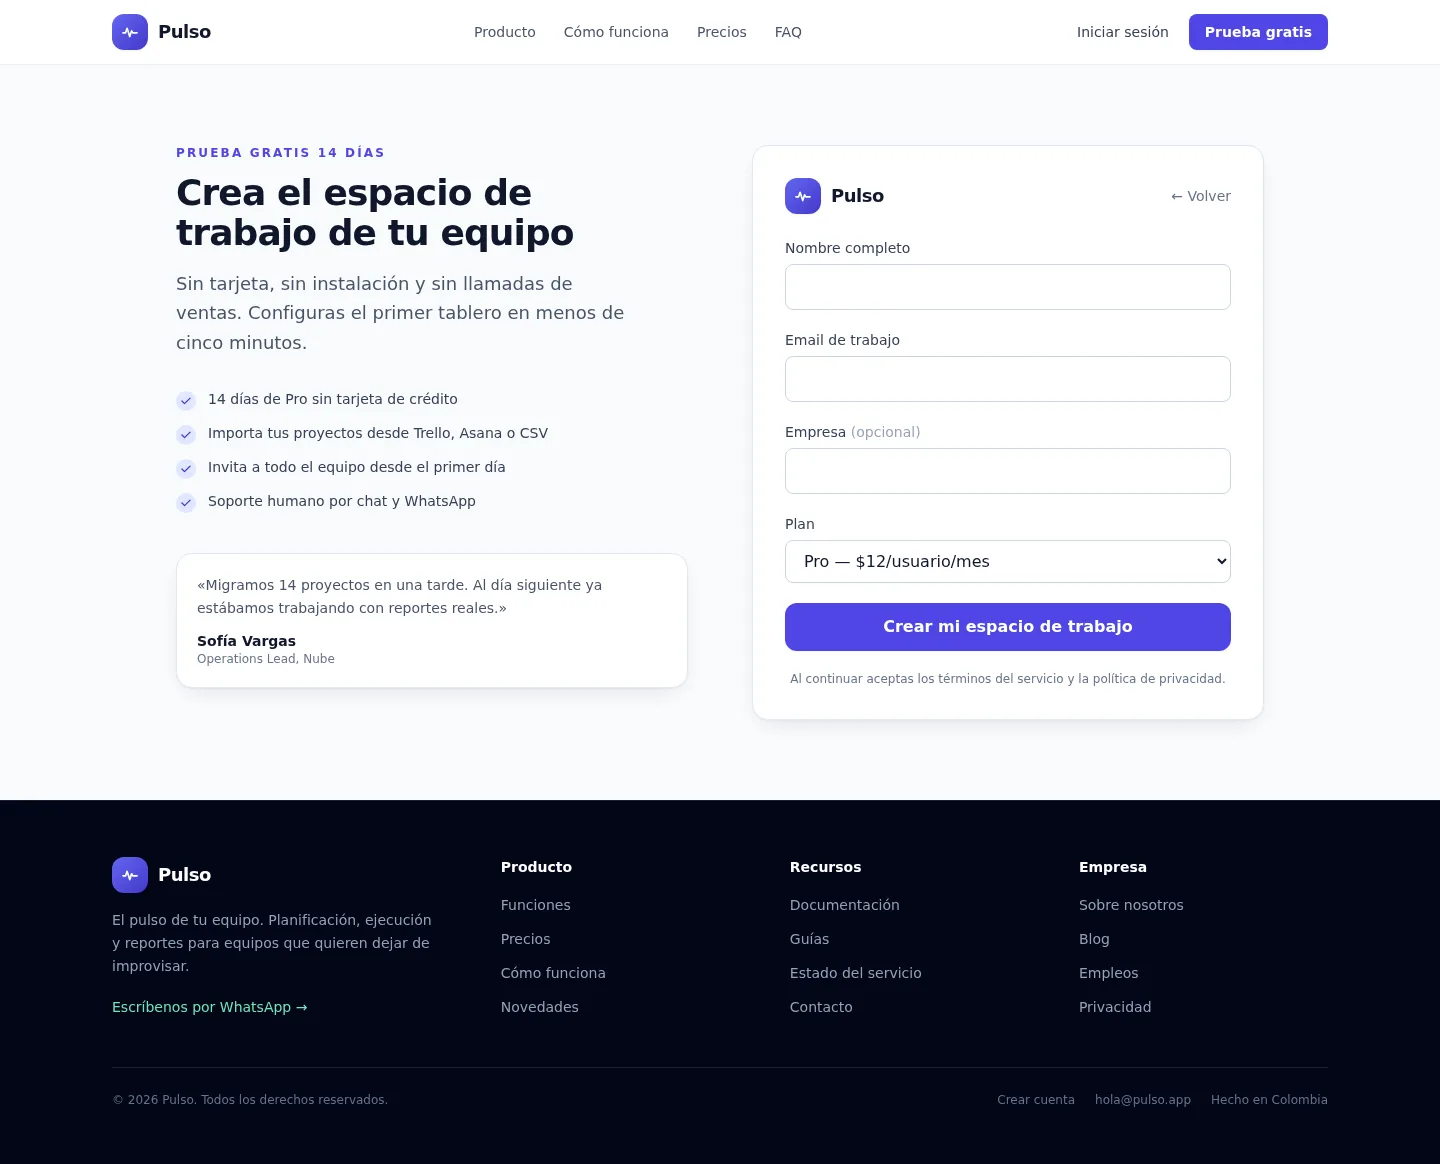
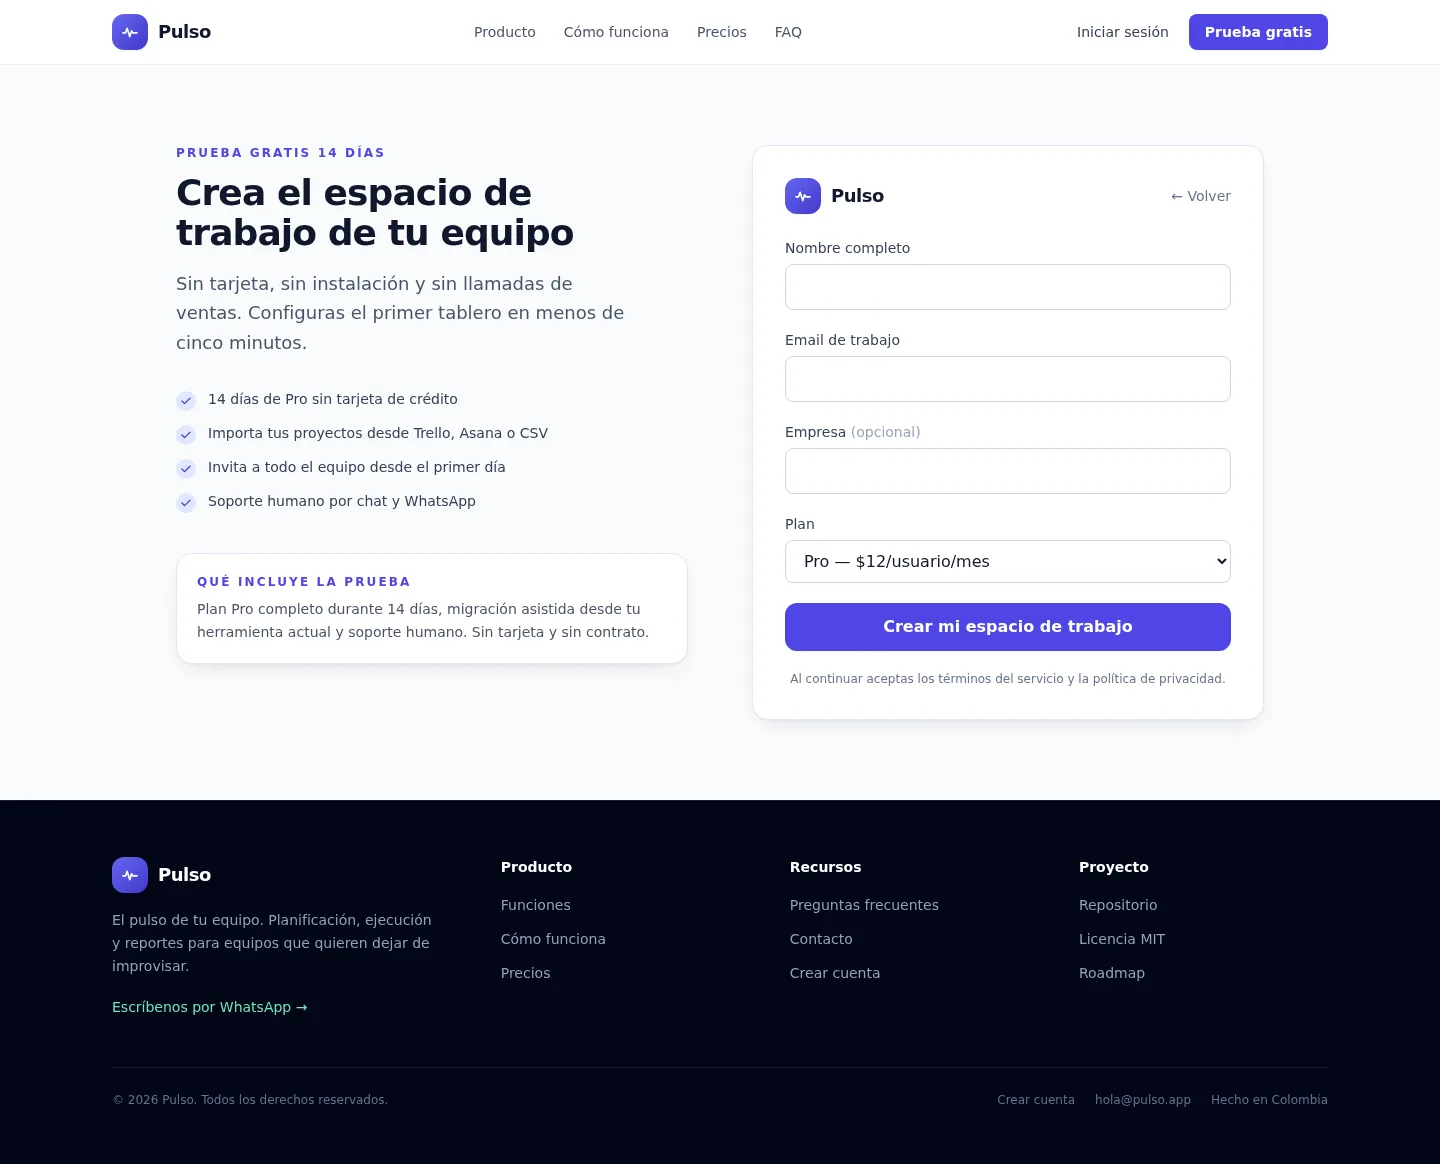
fix: disclose demo behavior and remove misleading content
- Signup no longer promises an email; success state states it is a demo
- Rename E2E case so it does not claim to create an account
- Replace fabricated hero metrics with verifiable product facts
- Label testimonials as illustrative and drop the sample quote from signup
- Replace dead footer links with working anchors and repository links
- Remove redundant WhatsApp alias and stale inherited copy in tests
- Refresh screenshots

diff --git a/apps/web/lib/constants.ts b/apps/web/lib/constants.ts
@@ -30,16 +30,13 @@ export interface Stat {
 }
 
 export const HERO_STATS: Stat[] = [
-  { value: "2.400+", label: "equipos activos" },
-  { value: "38%", label: "menos reuniones de estado" },
-  { value: "4,8/5", label: "valoración media" },
+  { value: "3", label: "vistas: kanban, lista y timeline" },
+  { value: "<5 min", label: "para montar tu primer tablero" },
+  { value: "14 días", label: "de prueba sin tarjeta" },
 ];
 
 /** Número de WhatsApp por defecto para CTAs (sin espacios ni +). */
 export const DEFAULT_WHATSAPP_NUMBER = "573208112607";
-
-/** Número WhatsApp Colombia para contacto. */
-export const WHATSAPP_COLOMBIA_NUMBER = DEFAULT_WHATSAPP_NUMBER;
 
 /** Mensaje predefinido para enlace WhatsApp. */
 export const WHATSAPP_DEFAULT_MESSAGE =
@@ -249,27 +246,30 @@ export const FOOTER_COLUMNS: FooterColumn[] = [
     title: "Producto",
     links: [
       { label: "Funciones", href: "/#producto" },
-      { label: "Precios", href: "/#precios" },
       { label: "Cómo funciona", href: "/#como-funciona" },
-      { label: "Novedades", href: "#" },
+      { label: "Precios", href: "/#precios" },
     ],
   },
   {
     title: "Recursos",
     links: [
-      { label: "Documentación", href: "#" },
-      { label: "Guías", href: "#" },
-      { label: "Estado del servicio", href: "#" },
-      { label: "Contacto", href: "#contacto" },
+      { label: "Preguntas frecuentes", href: "/#faq" },
+      { label: "Contacto", href: "/#contacto" },
+      { label: "Crear cuenta", href: "/signup" },
     ],
   },
   {
-    title: "Empresa",
+    title: "Proyecto",
     links: [
-      { label: "Sobre nosotros", href: "#" },
-      { label: "Blog", href: "#" },
-      { label: "Empleos", href: "#" },
-      { label: "Privacidad", href: "#" },
+      { label: "Repositorio", href: "https://github.com/G4V0-dev/pulso" },
+      {
+        label: "Licencia MIT",
+        href: "https://github.com/G4V0-dev/pulso/blob/main/LICENSE",
+      },
+      {
+        label: "Roadmap",
+        href: "https://github.com/G4V0-dev/pulso#roadmap",
+      },
     ],
   },
 ];

diff --git a/apps/web/components/SignupForm.tsx b/apps/web/components/SignupForm.tsx
@@ -43,7 +43,8 @@ export function SignupForm({ defaultPlan = "pro" }: { defaultPlan?: string }) {
       return;
     }
 
-    // Punto de integración: POST a /api/signup.
+    // Demo sin backend: el formulario valida en cliente y no envía correos.
+    // Punto de integración para producción: POST a /api/signup.
     setSubmitted(true);
   };
 
@@ -53,10 +54,10 @@ export function SignupForm({ defaultPlan = "pro" }: { defaultPlan?: string }) {
         <span className="mx-auto grid h-12 w-12 place-items-center rounded-full bg-emerald-600 text-white">
           <CheckIcon className="h-6 w-6" />
         </span>
-        <h2 className="mt-4 text-xl font-semibold text-ink-900">Revisa tu correo</h2>
+        <h2 className="mt-4 text-xl font-semibold text-ink-900">Solicitud registrada</h2>
         <p className="mx-auto mt-2 max-w-sm text-sm text-ink-600">
-          Te enviamos un enlace para activar tu espacio de trabajo. Si no llega en unos
-          minutos, revisa la carpeta de spam.
+          Esta es una demo de portafolio: no se envía ningún correo ni se crea una cuenta
+          real. En producción, aquí recibirías el enlace de activación.
         </p>
         <Link
           href="/"

diff --git a/apps/web/__tests__/Hero.test.tsx b/apps/web/__tests__/Hero.test.tsx
@@ -33,13 +33,13 @@ describe("Hero", () => {
         title="Test"
         ctaWhatsApp="WhatsApp"
         whatsappNumber="573208112607"
-        whatsappMessage="estoy interesado en la pagina web para mi negocio"
+        whatsappMessage="Hola, quiero una demo de Pulso"
       />,
     );
     const cta = screen.getByRole("link", { name: /abrir whatsapp: whatsapp/i });
     expect(cta).toHaveAttribute(
       "href",
-      "https://wa.me/573208112607?text=estoy%20interesado%20en%20la%20pagina%20web%20para%20mi%20negocio",
+      "https://wa.me/573208112607?text=Hola%2C%20quiero%20una%20demo%20de%20Pulso",
     );
   });
 
@@ -77,8 +77,8 @@ describe("Hero", () => {
   });
 
   it("muestra las métricas cuando se pasan stats", () => {
-    render(<Hero title="Test" stats={[{ value: "2.400+", label: "equipos activos" }]} />);
-    expect(screen.getByText("2.400+")).toBeInTheDocument();
-    expect(screen.getAllByText(/equipos activos/i)).not.toHaveLength(0);
+    render(<Hero title="Test" stats={[{ value: "3", label: "vistas de tablero" }]} />);
+    expect(screen.getByText("3")).toBeInTheDocument();
+    expect(screen.getAllByText(/vistas de tablero/i)).not.toHaveLength(0);
   });
 });

diff --git a/apps/web/app/page.tsx b/apps/web/app/page.tsx
@@ -9,7 +9,7 @@ import { CTA } from "@/components/CTA";
 import {
   HERO_STATS,
   PLANS,
-  WHATSAPP_COLOMBIA_NUMBER,
+  DEFAULT_WHATSAPP_NUMBER,
   WHATSAPP_DEFAULT_MESSAGE,
 } from "@/lib/constants";
 
@@ -24,7 +24,7 @@ export default function Home() {
         ctaDemo="Ver demo de 2 min"
         ctaWhatsApp="Hablar por WhatsApp"
         ctaSecondary="Ver precios"
-        whatsappNumber={WHATSAPP_COLOMBIA_NUMBER}
+        whatsappNumber={DEFAULT_WHATSAPP_NUMBER}
         whatsappMessage={WHATSAPP_DEFAULT_MESSAGE}
         stats={HERO_STATS}
         showPreview
@@ -55,7 +55,7 @@ export default function Home() {
         title="Tu próximo sprint puede empezar hoy"
         description="Cuéntanos cómo trabaja tu equipo por WhatsApp y te mostramos cómo se vería dentro de Pulso. Sin compromiso."
         buttonText="Hablar con el equipo"
-        whatsappNumber={WHATSAPP_COLOMBIA_NUMBER}
+        whatsappNumber={DEFAULT_WHATSAPP_NUMBER}
         whatsappMessage={WHATSAPP_DEFAULT_MESSAGE}
       />
     </main>

diff --git a/apps/web/app/signup/page.tsx b/apps/web/app/signup/page.tsx
@@ -38,12 +38,13 @@ export default function SignupPage({ searchParams }: SignupPageProps) {
           </div>
 
           <div className="mt-10 rounded-2xl border border-ink-200 bg-white p-5 shadow-card">
-            <p className="text-sm leading-relaxed text-ink-600">
-              «Migramos 14 proyectos en una tarde. Al día siguiente ya estábamos
-              trabajando con reportes reales.»
+            <p className="text-xs font-semibold uppercase tracking-[0.18em] text-brand-600">
+              Qué incluye la prueba
             </p>
-            <p className="mt-3 text-sm font-semibold text-ink-900">Sofía Vargas</p>
-            <p className="text-xs text-ink-500">Operations Lead, Nube</p>
+            <p className="mt-2 text-sm leading-relaxed text-ink-600">
+              Plan Pro completo durante 14 días, migración asistida desde tu herramienta
+              actual y soporte humano. Sin tarjeta y sin contrato.
+            </p>
           </div>
         </div>
 

diff --git a/apps/web/components/Testimonials.tsx b/apps/web/components/Testimonials.tsx
@@ -5,9 +5,9 @@ export function Testimonials() {
   return (
     <Section ariaLabel="Testimonios de clientes">
       <SectionHeader
-        eyebrow="Equipos reales"
+        eyebrow="Escenarios de ejemplo"
         title="Menos persecución, más entregas"
-        description="Estos son algunos de los equipos que cambiaron su forma de trabajar con Pulso."
+        description="Así describen el cambio los equipos que usan tableros, automatizaciones y reportes en su día a día."
       />
 
       <ul role="list" className="grid gap-5 md:grid-cols-3">
@@ -46,6 +46,10 @@ export function Testimonials() {
           </li>
         ))}
       </ul>
+
+      <p className="mt-8 text-center text-xs text-ink-500">
+        Testimonios y nombres ilustrativos para esta demo de portafolio.
+      </p>
     </Section>
   );
 }

diff --git a/apps/web/e2e/signup.spec.ts b/apps/web/e2e/signup.spec.ts
@@ -15,7 +15,7 @@ test.describe("Flujo de registro", () => {
     ).toBeVisible();
   });
 
-  test("crea la cuenta con datos válidos", async ({ page }) => {
+  test("muestra la confirmación de la demo con datos válidos", async ({ page }) => {
     await page.goto("/signup");
 
     await expect(page.getByLabel(/plan/i)).toHaveValue("pro");
@@ -25,6 +25,8 @@ test.describe("Flujo de registro", () => {
     await page.getByRole("textbox", { name: /empresa/i }).fill("Kora");
     await page.getByRole("button", { name: /crear mi espacio/i }).click();
 
-    await expect(page.getByRole("heading", { name: /revisa tu correo/i })).toBeVisible();
+    await expect(
+      page.getByRole("heading", { name: /solicitud registrada/i }),
+    ).toBeVisible();
   });
 });

diff --git a/apps/web/__tests__/SignupForm.test.tsx b/apps/web/__tests__/SignupForm.test.tsx
@@ -16,7 +16,7 @@ describe("SignupForm", () => {
     expect(screen.getAllByText(/escribe un email válido/i)).not.toHaveLength(0);
     expect(screen.getByRole("alert")).toHaveTextContent(/escribe un email válido/i);
     expect(
-      screen.queryByRole("heading", { name: /revisa tu correo/i }),
+      screen.queryByRole("heading", { name: /solicitud registrada/i }),
     ).not.toBeInTheDocument();
   });
 
@@ -31,7 +31,7 @@ describe("SignupForm", () => {
     fireEvent.click(screen.getByRole("button", { name: /crear mi espacio/i }));
 
     expect(
-      screen.getByRole("heading", { name: /revisa tu correo/i }),
+      screen.getByRole("heading", { name: /solicitud registrada/i }),
     ).toBeInTheDocument();
   });
 

diff --git a/apps/web/components/Footer.tsx b/apps/web/components/Footer.tsx
@@ -1,6 +1,6 @@
 import Link from "next/link";
 import { Logo } from "@/components/Logo";
-import { FOOTER_COLUMNS, SITE, WHATSAPP_COLOMBIA_NUMBER } from "@/lib/constants";
+import { FOOTER_COLUMNS, SITE, DEFAULT_WHATSAPP_NUMBER } from "@/lib/constants";
 import { whatsappUrl } from "@/lib/links";
 
 export function Footer() {
@@ -16,7 +16,7 @@ export function Footer() {
             </p>
             <a
               href={whatsappUrl(
-                WHATSAPP_COLOMBIA_NUMBER,
+                DEFAULT_WHATSAPP_NUMBER,
                 "Hola, quiero saber más sobre Pulso",
               )}
               target="_blank"

diff --git a/README.md b/README.md
@@ -1,8 +1,8 @@
 # Pulso
 
-Landing y base de producto para un SaaS de gestión de proyectos. El sitio presenta el producto, sus planes y un flujo de registro funcional, construido con Next.js 14 (App Router), TypeScript y Tailwind CSS.
+Landing y base de producto para un SaaS de gestión de proyectos. El sitio presenta el producto, sus planes y un flujo de registro simulado, construido con Next.js 14 (App Router), TypeScript y Tailwind CSS.
 
-> **Nota:** Pulso es un producto ficticio creado como pieza de portafolio. Las métricas, testimonios y logos son de ejemplo.
+> **Nota:** Pulso es un producto ficticio creado como pieza de portafolio. Los testimonios y datos de contacto son de ejemplo.
 
 ![Hero de Pulso](docs/hero.webp)
 
@@ -69,6 +69,14 @@ npm run test:e2e      # Playwright
 ```
 
 También puedes ejecutar todo desde `apps/web` con `npm run <script>`.
+
+## Limitaciones conocidas (demo)
+
+- **El registro no crea cuentas ni envía correos.** Valida los campos en el cliente y muestra una confirmación explícita de que se trata de una demo. El punto de integración para un `POST /api/signup` está marcado en `SignupForm.tsx`.
+- **No hay backend.** El modal de demo tampoco persiste datos; solo emite eventos a `dataLayer` si existe.
+- **El número de WhatsApp** proviene del repositorio original y debe confirmarse antes de usar el sitio en producción.
+- **Los testimonios son ilustrativos**, están etiquetados como tales en la sección y no representan clientes reales.
+- **Sin deploy todavía.** El enlace de producción se añadirá al desplegar en Vercel.
 
 ## Decisiones técnicas
 
